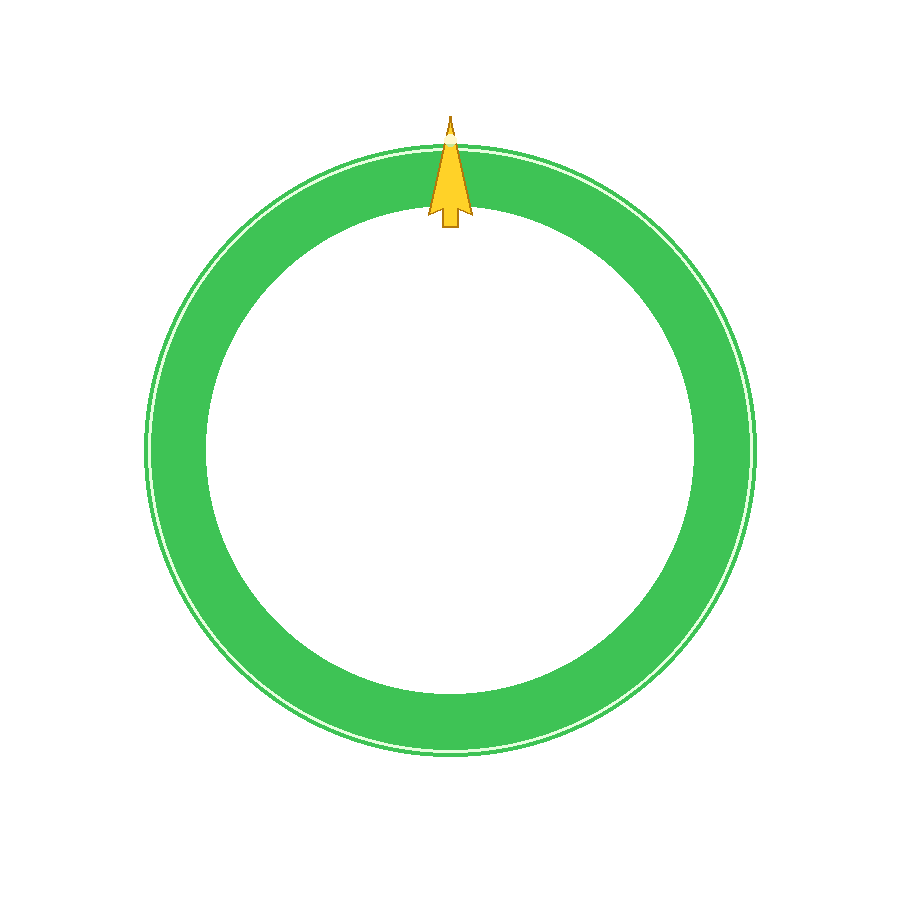
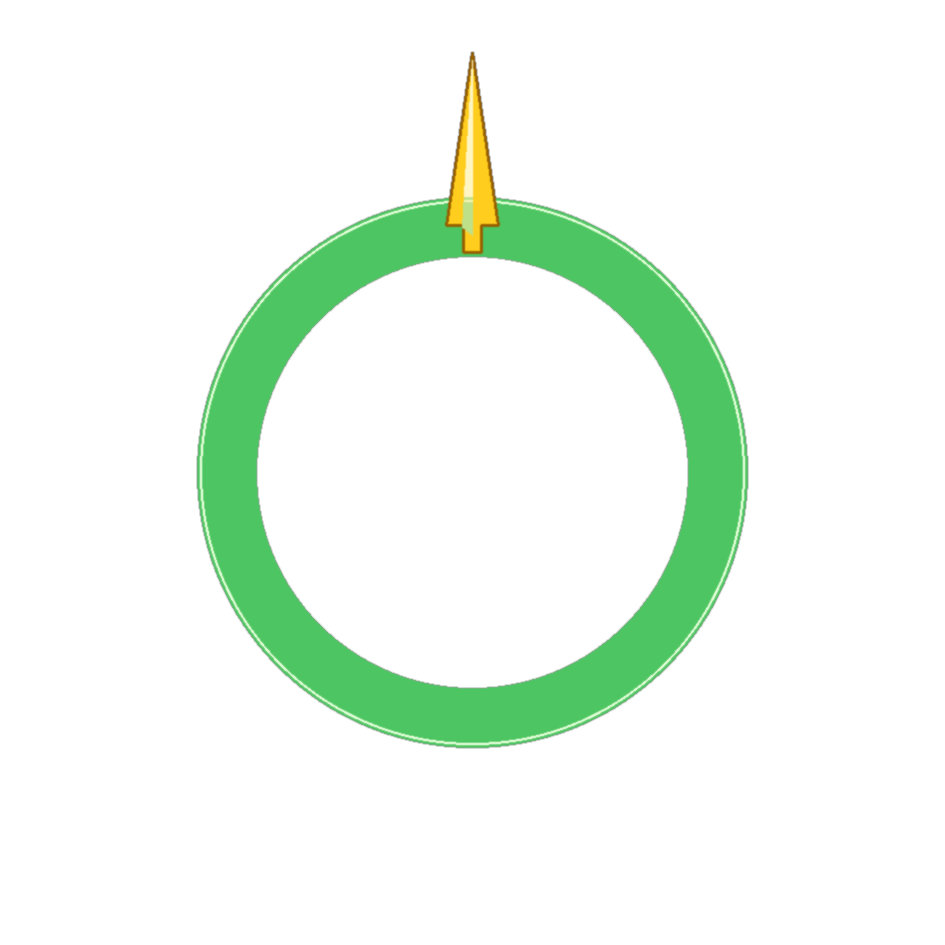
Update wheel images and adjust CSS for improved layout
- Updated wheel image references in PlayScreen to version 5 for consistency.
- Modified CSS for the wheel-arrow class to use 100% width and height for better responsiveness.

Changed region(s): [[0.1556, 0.0622, 0.84, 0.84]]

diff --git a/src/screens/PlayScreen.tsx b/src/screens/PlayScreen.tsx
@@ -234,12 +234,12 @@ export function PlayScreen({ gameId, mode, onBack }: Props) {
       </div>
 
       <div className="wheel-stage">
-        <img className="wheel-base" src="/wheel.png?v=4" alt="Wheel" draggable={false} />
+        <img className="wheel-base" src="/wheel.png?v=5" alt="Wheel" draggable={false} />
         <div
           className={`wheel-arrow-wrap ${spinning ? 'is-spinning' : ''}`}
           style={{ transform: `rotate(${arrowRotation}deg)` }}
         >
-          <img className="wheel-arrow" src="/wheel-arrow.png?v=4" alt="" draggable={false} />
+          <img className="wheel-arrow" src="/wheel-arrow.png?v=5" alt="" draggable={false} />
         </div>
       </div>
 

diff --git a/src/index.css b/src/index.css
@@ -301,7 +301,7 @@ button:focus-visible, input:focus-visible { outline: 3px solid rgba(39, 154, 224
   transition: transform 4.2s cubic-bezier(.12, .7, .12, 1);
 }
 .wheel-arrow {
-  width: 72%; height: 72%; object-fit: contain;
+  width: 100%; height: 100%; object-fit: contain;
   user-select: none; -webkit-user-drag: none;
   filter: drop-shadow(0 2px 6px rgba(0,0,0,.35));
 }
